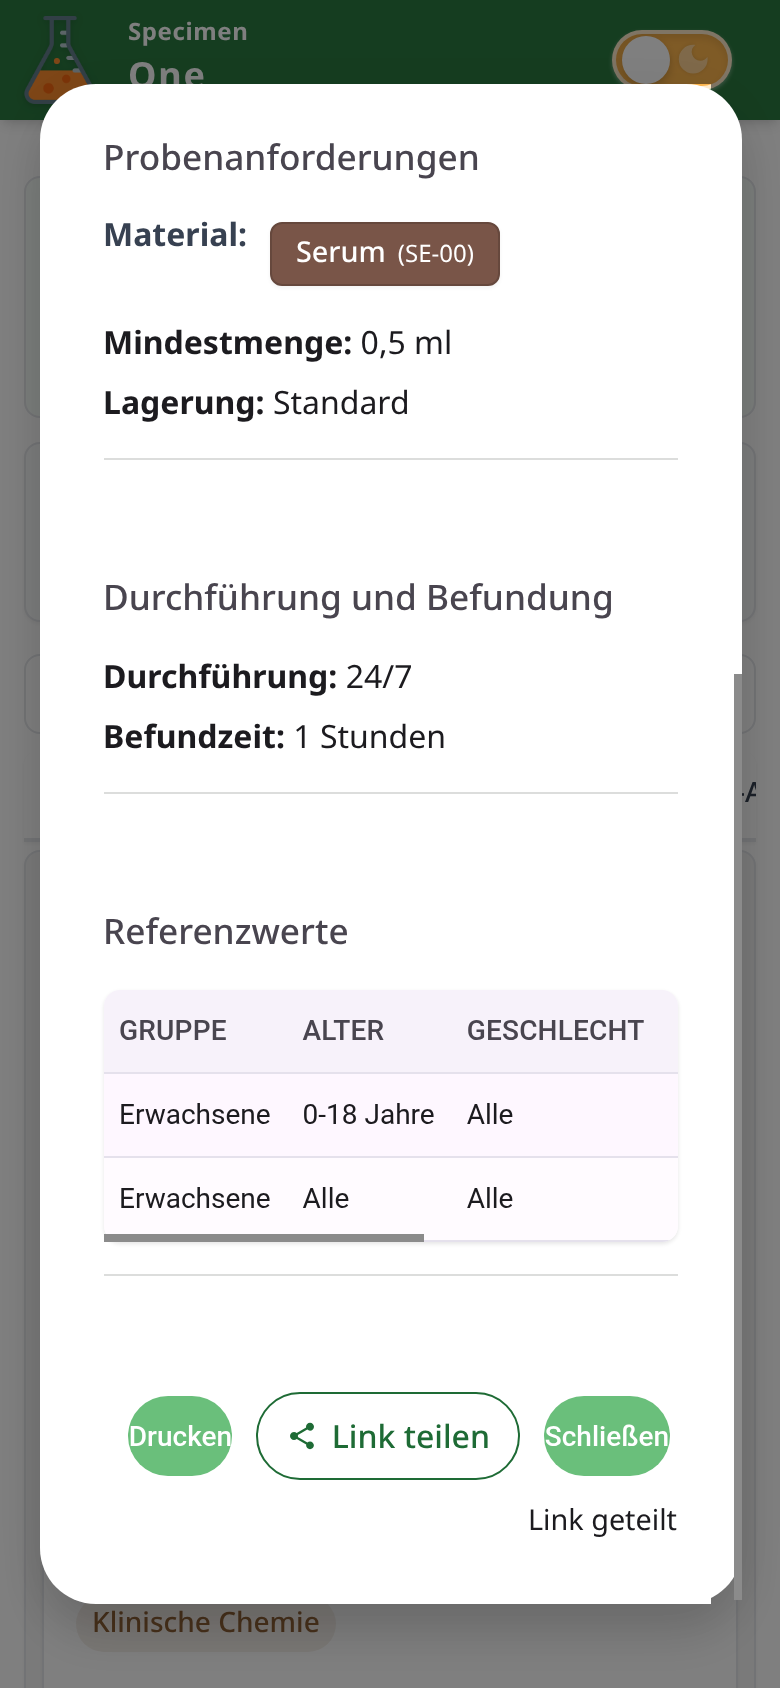
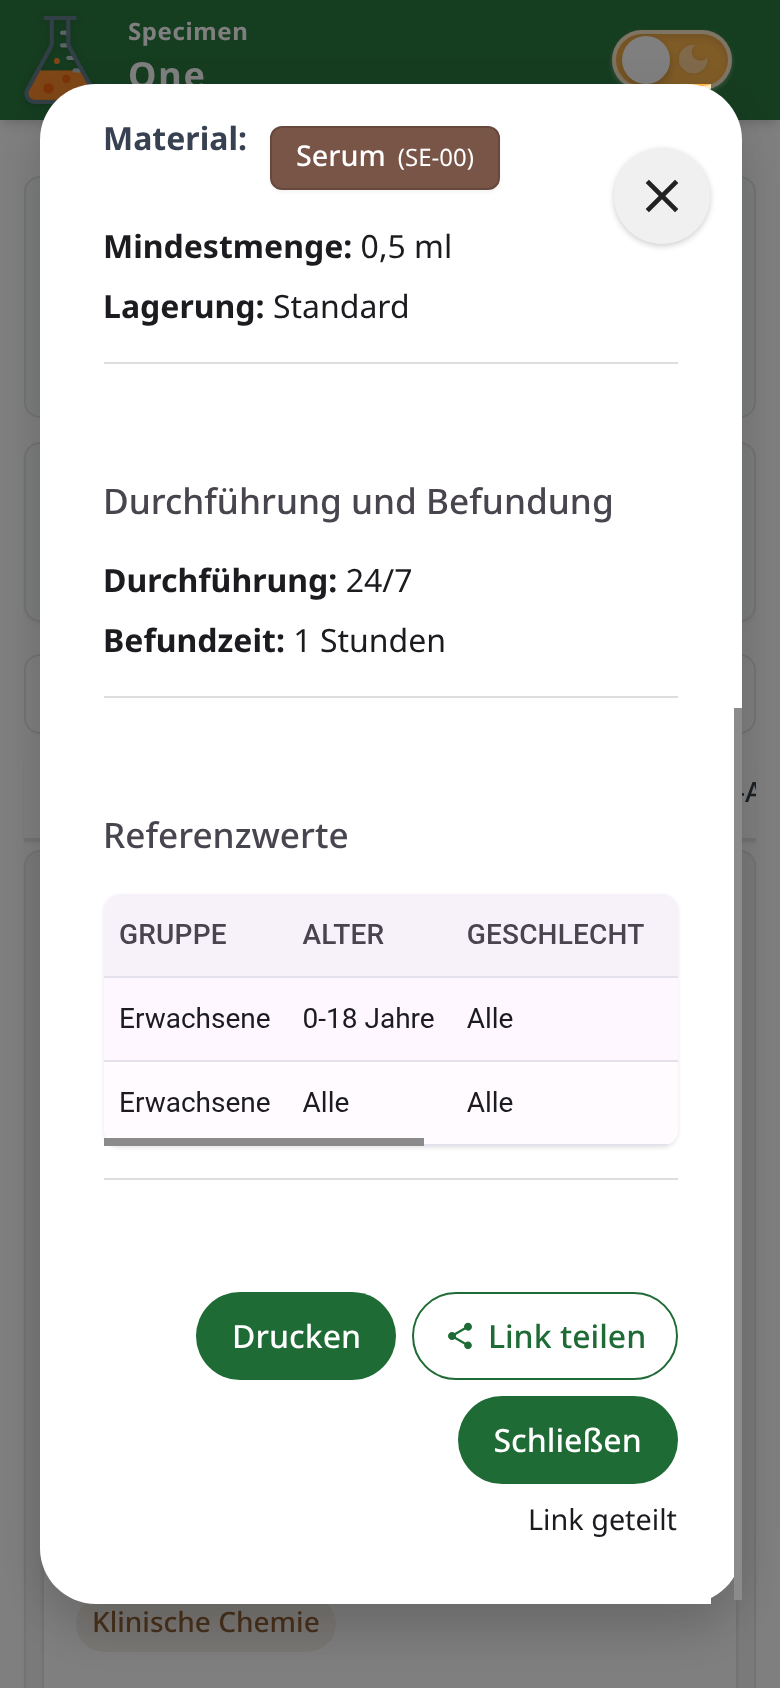
Detailansicht: größerer Schließen-Knopf (48 px, sichtbar, bleibt beim Scrollen oben), Drucken/Schließen nicht mehr gequetscht

diff --git a/src/components/TestDetails.css b/src/components/TestDetails.css
@@ -35,16 +35,30 @@
   position: relative;
 }
 
+/* Schließen-Knopf: 48 px groß, mit sichtbarem Hintergrund und „sticky“, damit er auch beim
+   Scrollen langer Details oben rechts erreichbar bleibt (der Container scrollt selbst). */
 .close-button {
-  position: absolute;
-  top: 1rem;
-  right: 1rem;
+  position: sticky;
+  top: 0;
+  float: right;
+  margin: -1rem -1rem 0 0.5rem;
+  z-index: 2;
   cursor: pointer;
 }
 
 .close-button:hover {
-  background-color: #f0f0f0;
-  color: #333;
+  background-color: #e4e4e4;
+  color: #111;
+}
+
+.dark-theme .close-button:hover {
+  background-color: #4a4a4a;
+  color: #fff;
+}
+
+.close-button:focus-visible {
+  outline: 3px solid #2b7a40;
+  outline-offset: 2px;
 }
 
 .test-details-container h2 {
@@ -65,12 +79,18 @@ button.close-button {
   display: flex;
   align-items: center;
   justify-content: center;
-  width: 44px;
-  height: 44px;
+  width: 48px;
+  height: 48px;
   border: none;
   border-radius: 9999px;
-  background: transparent;
-  color: inherit;
+  background: #f0f0f0;
+  color: #222;
+  box-shadow: 0 1px 3px rgba(0, 0, 0, 0.2);
+}
+
+.dark-theme button.close-button {
+  background: #3a3a3a;
+  color: #f0f0f0;
 }
 
 .details-section {
@@ -347,5 +367,27 @@ md-divider {
 .teilen-knopf:hover { background: rgba(30, 107, 53, 0.08); }
 .dark-theme .teilen-knopf { border-color: #83d991; color: #83d991; }
 .dark-theme .teilen-knopf:hover { background: rgba(131, 217, 145, 0.12); }
+/* Drucken / Schließen: gefüllte Knöpfe, schrumpfen nicht (vorher md-filled-button, auf Mobil auf ~55 px gequetscht) */
+.aktion-knopf {
+  display: inline-flex;
+  align-items: center;
+  justify-content: center;
+  flex-shrink: 0;
+  min-height: 44px;
+  padding: 0 1.1rem;
+  border: none;
+  border-radius: 9999px;
+  background: #1e6b35;
+  color: #fff;
+  font: inherit;
+  font-weight: 500;
+  cursor: pointer;
+}
+.aktion-knopf:hover { background: #17552a; }
+.dark-theme .aktion-knopf { background: #83d991; color: #0b2913; }
+.dark-theme .aktion-knopf:hover { background: #9be3a6; }
+.aktion-knopf:focus-visible, .teilen-knopf:focus-visible { outline: 3px solid #2b7a40; outline-offset: 2px; }
+.close-button svg { width: 28px; height: 28px; flex-shrink: 0; }
+.teilen-knopf { flex-shrink: 0; }
 .teilen-meldung { min-height: 1.4em; margin: 0.5rem 0 0; text-align: right; font-size: 0.9rem; }
 @media print { .teilen-meldung { display: none; } }

diff --git a/src/components/TestDetails.jsx b/src/components/TestDetails.jsx
@@ -2,8 +2,6 @@ import React, { useEffect, useRef, useState } from 'react'
 import './TestDetails.css' // Diese Datei behalten wir vorerst für Druckstile & Tabellenstile
 // TestDetails-Badge.css nicht mehr erforderlich, da wir Tailwind verwenden
 // import './TestDetails-Badge.css'
-import '@material/web/button/filled-button.js'
-import '@material/web/button/text-button.js'
 import '@material/web/divider/divider.js'
 import '@material/web/elevation/elevation.js'
 import * as MaterialDesign from "react-icons/md"
@@ -441,8 +439,8 @@ function TestDetails({ test, onClose }) {
         onKeyDown={handleDialogKeyDown}
         className={`test-details-container md-elevation-5 ${tailwindBtn.classes.cardBg}`}
       >
-        <button type="button" className={`close-button ${tailwindBtn.classes.textMuted}`} onClick={schliessen} aria-label="Details schließen">
-          <MaterialDesign.MdClose style={{fontSize: "24px"}} aria-hidden="true" />
+        <button type="button" className="close-button" onClick={schliessen} aria-label="Details schließen">
+          <MaterialDesign.MdClose size={28} aria-hidden="true" />
         </button>
           <h2 id="test-details-titel" className={`${tailwindBtn.classes.text} ${testDetails.kategorie ? `kategorie-text-${testDetails.kategorie.toLowerCase().replace(/\s+/g, '-')}` : ''}`}>{testDetails.name}</h2>
         
@@ -677,7 +675,7 @@ function TestDetails({ test, onClose }) {
             <md-divider></md-divider>
           </div>
         )}        <div className="actions">
-          <md-filled-button onClick={handlePrint} class={tailwindBtn.classes.mdButton}>Drucken</md-filled-button>
+          <button type="button" onClick={handlePrint} className="aktion-knopf">Drucken</button>
           <button
             type="button"
             onClick={handleTeilen}
@@ -686,7 +684,7 @@ function TestDetails({ test, onClose }) {
           >
             <MaterialDesign.MdShare aria-hidden="true" /> Link teilen
           </button>
-          <md-filled-button onClick={schliessen} class={tailwindBtn.classes.mdButton}>Schließen</md-filled-button>
+          <button type="button" onClick={schliessen} className="aktion-knopf">Schließen</button>
         </div>
         <p role="status" aria-live="polite" className="teilen-meldung">{teilenMeldung}</p>
       </div>
